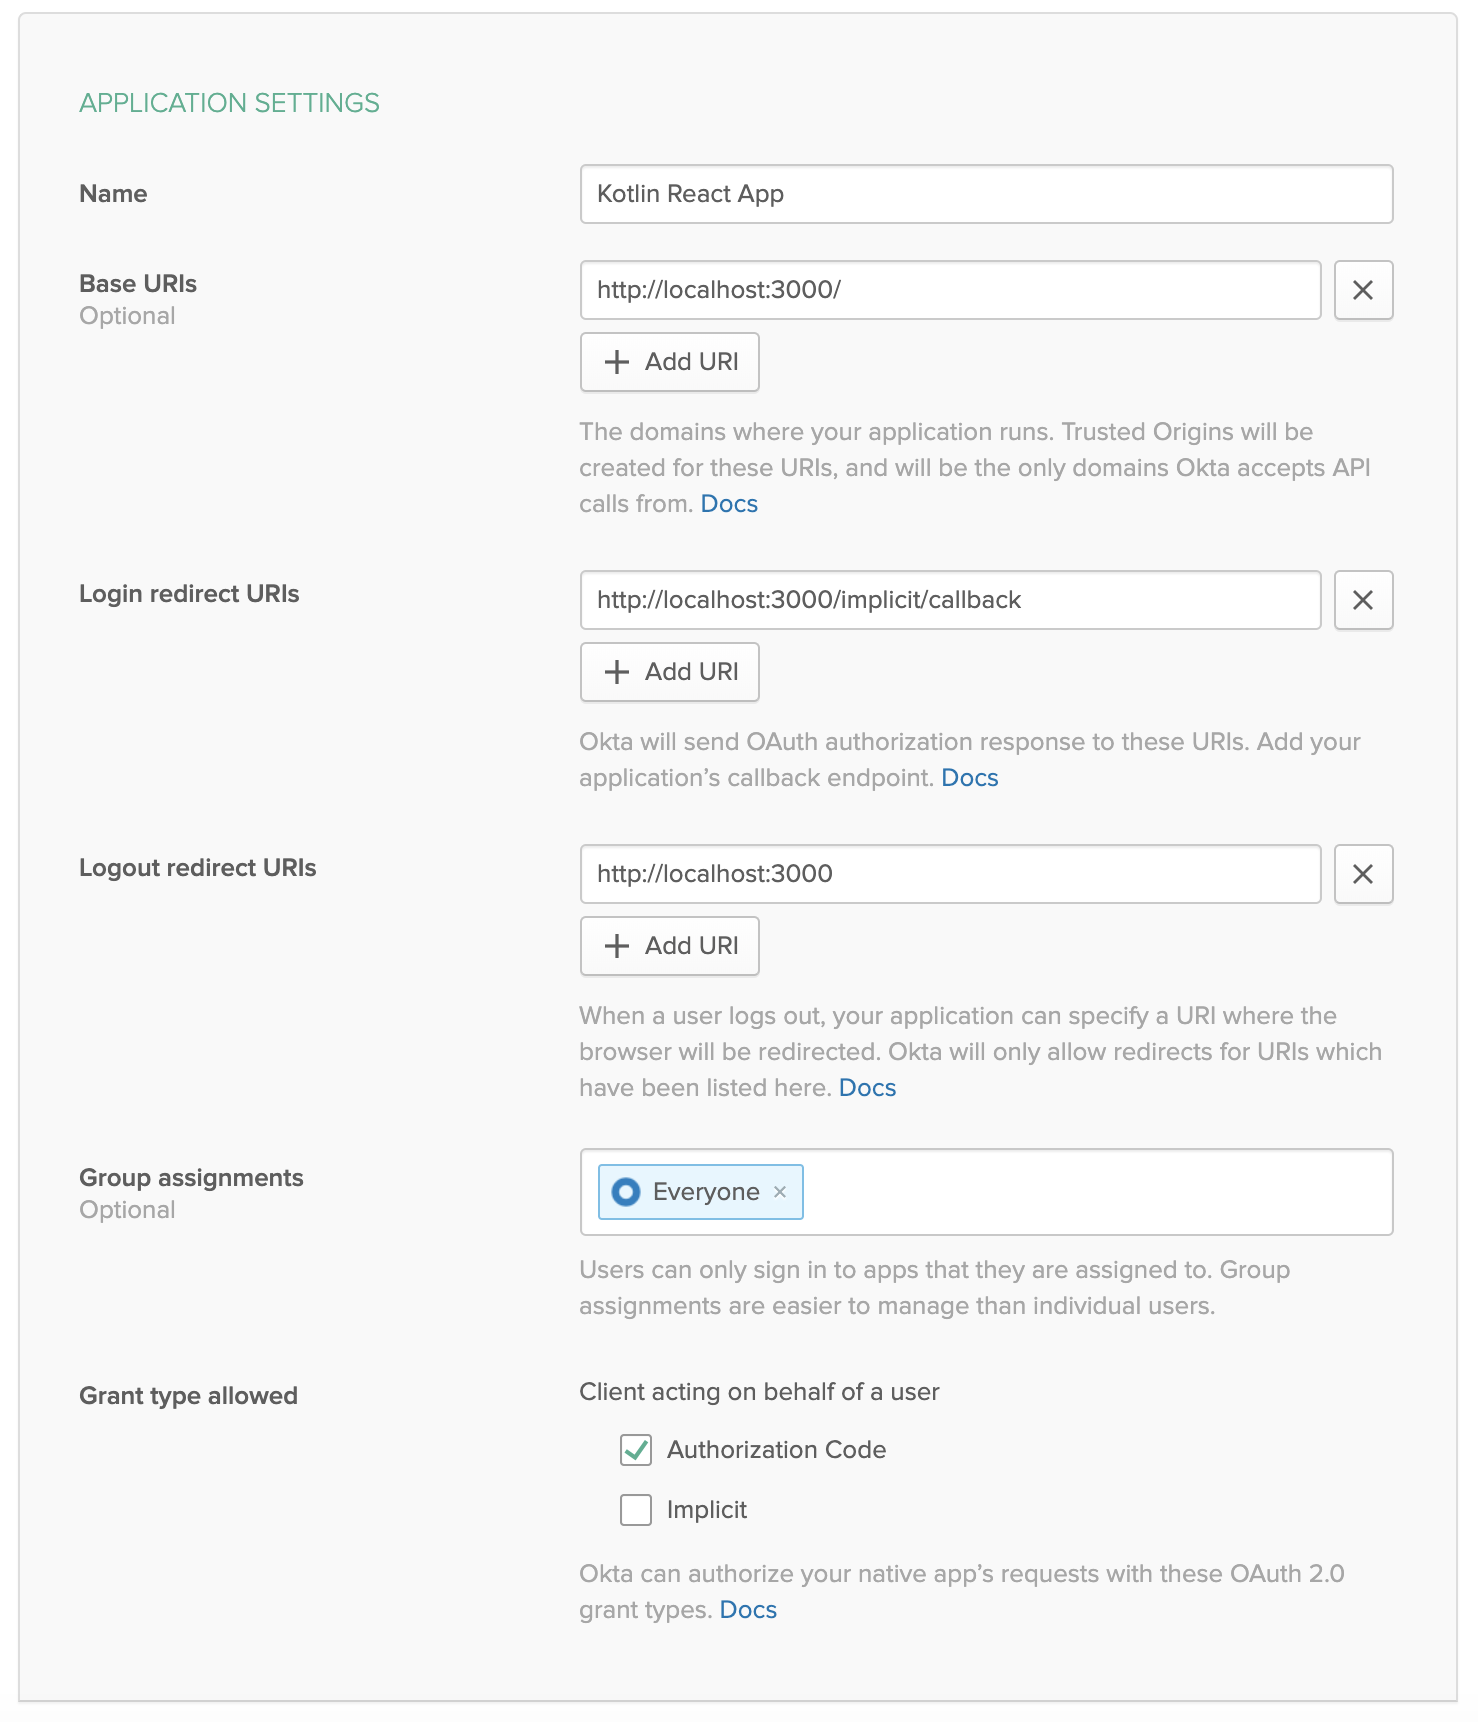
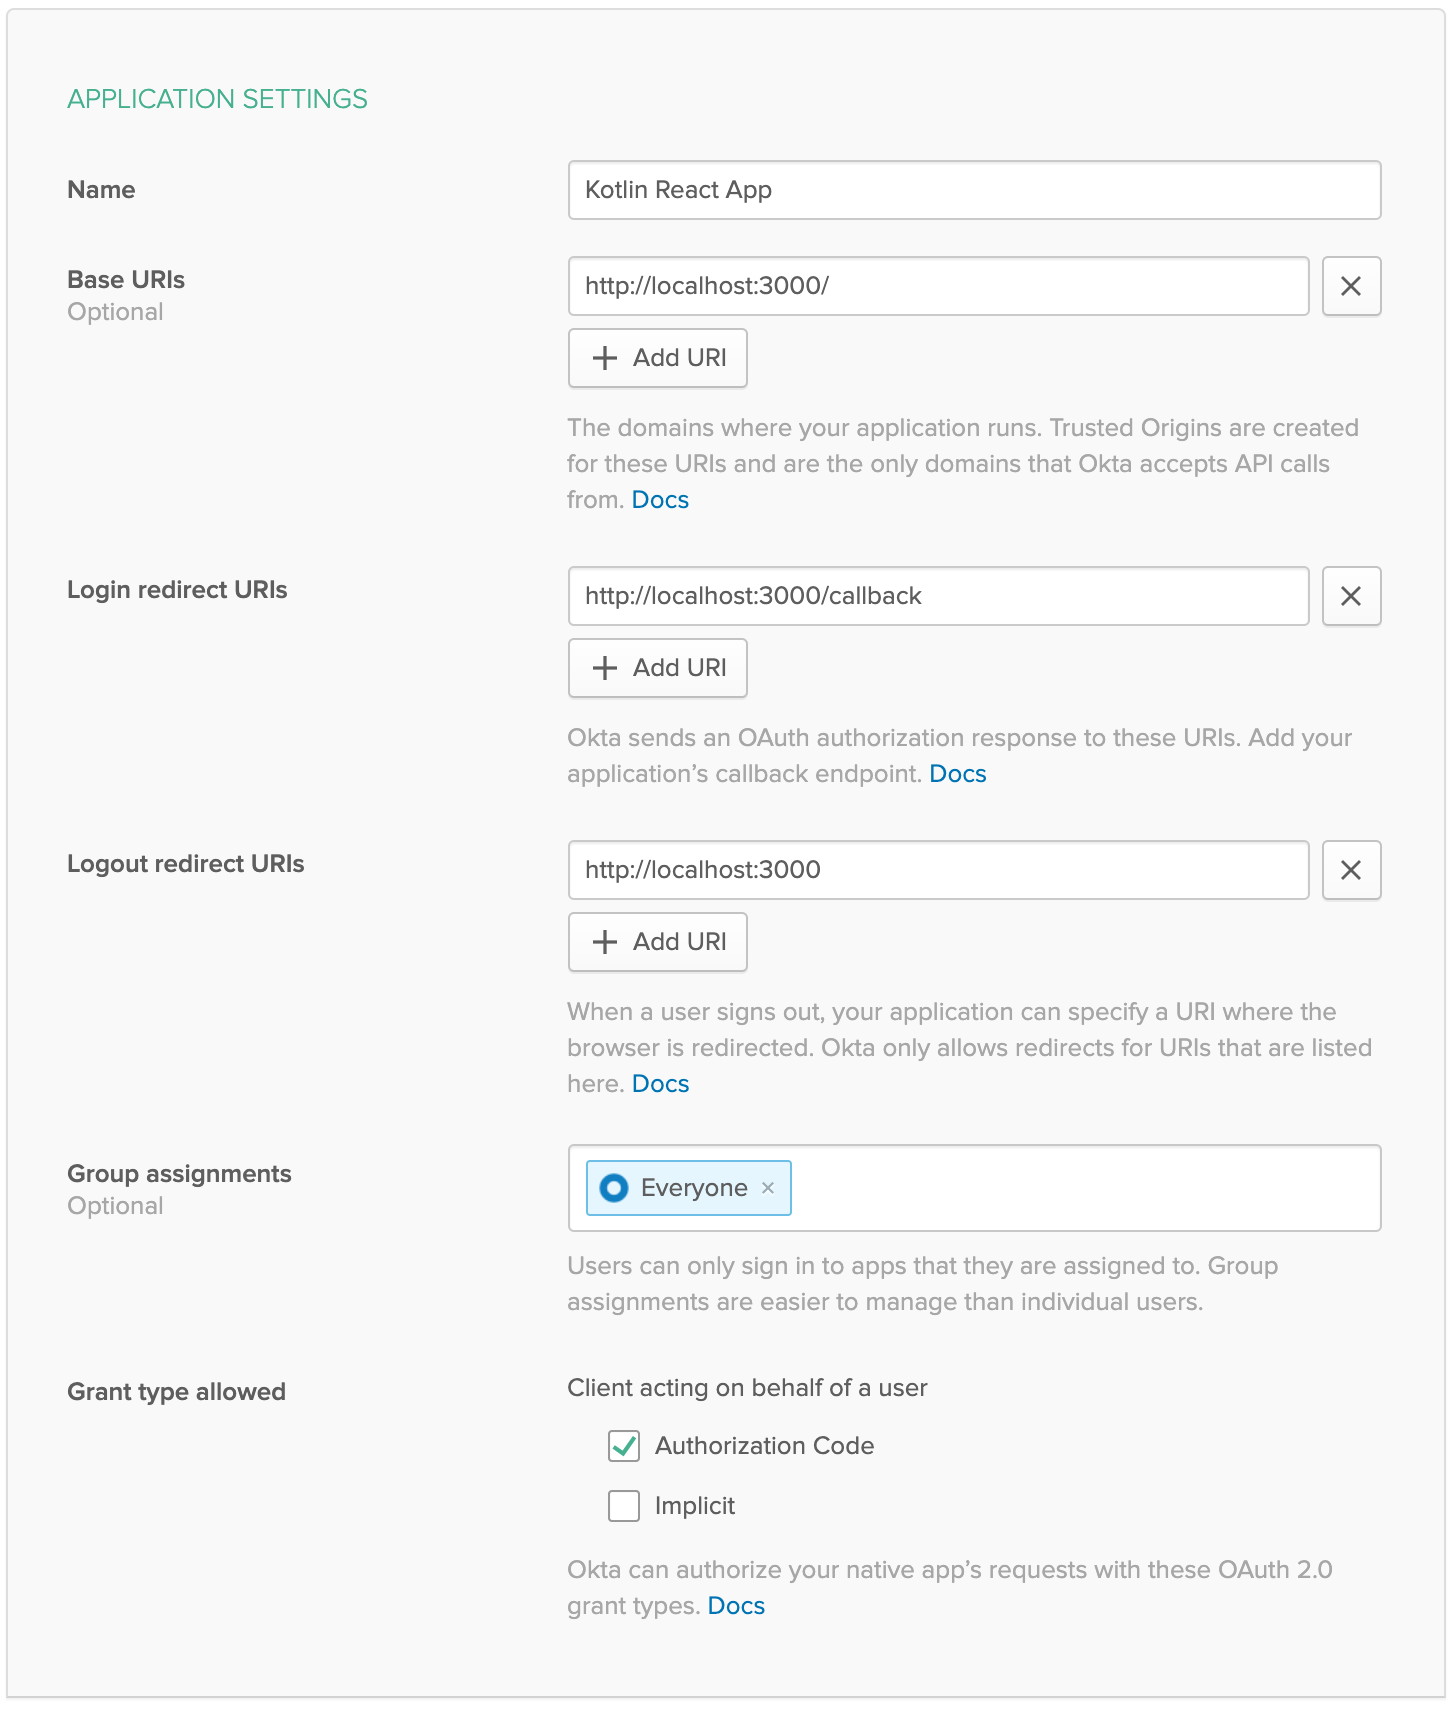
Remove /implicit from redirect URIs in React + Kotlin post

diff --git a/_source/_posts/2020-01-13-kotlin-react-crud.md b/_source/_posts/2020-01-13-kotlin-react-crud.md
@@ -924,7 +924,7 @@ If you haven't already, head over to [developer.okta.com](http://developer.okta.
 * Select **Single-Page App** and click **Next**
 * Change the name to be "Kotlin React App"
 * Change the **Base URI** to `http://localhost:3000`
-* Change the **Login redirect URIs** to have `http://localhost:3000/implicit/callback` 
+* Change the **Login redirect URIs** to have `http://localhost:3000/callback` 
 * Update the **Logout redirect URIs** to have `http://localhost:3000`
 
 {% img blog/kotlin-react-crud/okta-app-settings.png alt:"Okta App Settings" width:"700" %}{: .center-image }
@@ -1006,7 +1006,7 @@ The first step to adding Okta OAuth 2.0 login to your frontend React application
 Use Yarn to add the project dependency to your React client.
 
 ```bash
-yarn add @okta/okta-react@1.3.1
+yarn add @okta/okta-react@3.0.1
 ```
 
 Now update `src/App.js` to match the following. Fill in your **Client ID** and your **Issuer URL** in the Security component properties.
@@ -1016,7 +1016,7 @@ import React, { Component } from 'react';
 import './App.css';
 import Home from './Home';
 import { BrowserRouter as Router, Route, Switch } from 'react-router-dom';
-import { Security, SecureRoute, ImplicitCallback } from '@okta/okta-react';
+import { Security, SecureRoute, LoginCallback } from '@okta/okta-react';
 import CoffeeShopsList from './CoffeeShopsList';
 import CoffeeShopEdit from './CoffeeShopEdit';
 import { withAuth } from '@okta/okta-react';
@@ -1103,9 +1103,9 @@ class App extends Component {
       <Router>
         <Security issuer='https://{yourOktaUrl}/oauth2/default'
               clientId='{yourClientId}'
-              redirectUri={window.location.origin + '/implicit/callback'}
+              redirectUri={window.location.origin + '/callback'}
               pkce={true}>
-          <Route path='/implicit/callback' component={ImplicitCallback} />
+          <Route path='/callback' component={LoginCallback} />
           <AuthWrapper />
         </Security>
       </Router>
@@ -1266,3 +1266,7 @@ If you want to keep learning, take a look at these related posts:
 - [Build a Simple CRUD App with Spring Boot and Vue.js](/blog/2018/11/20/build-crud-spring-and-vue)
 
 If you have any questions about this post, please add a comment below. For more awesome content, follow  [@oktadev](https://twitter.com/oktadev) on Twitter, like us [on Facebook](https://www.facebook.com/oktadevelopers/), or subscribe to [our YouTube channel](https://www.youtube.com/c/oktadev).
+
+**Changelog:**
+
+* May 18, 2020: Upgraded to Okta React 3.0.1 and removed `/implicit` from Login redirect URL. See the code changes in the https://github.com/oktadeveloper/okta-kotlin-react-crud-example/pull/3[example app on GitHub]. Changes to this article can be viewed in https://github.com/oktadeveloper/okta-blog/pull/297[oktadeveloper/okta-blog#297].
